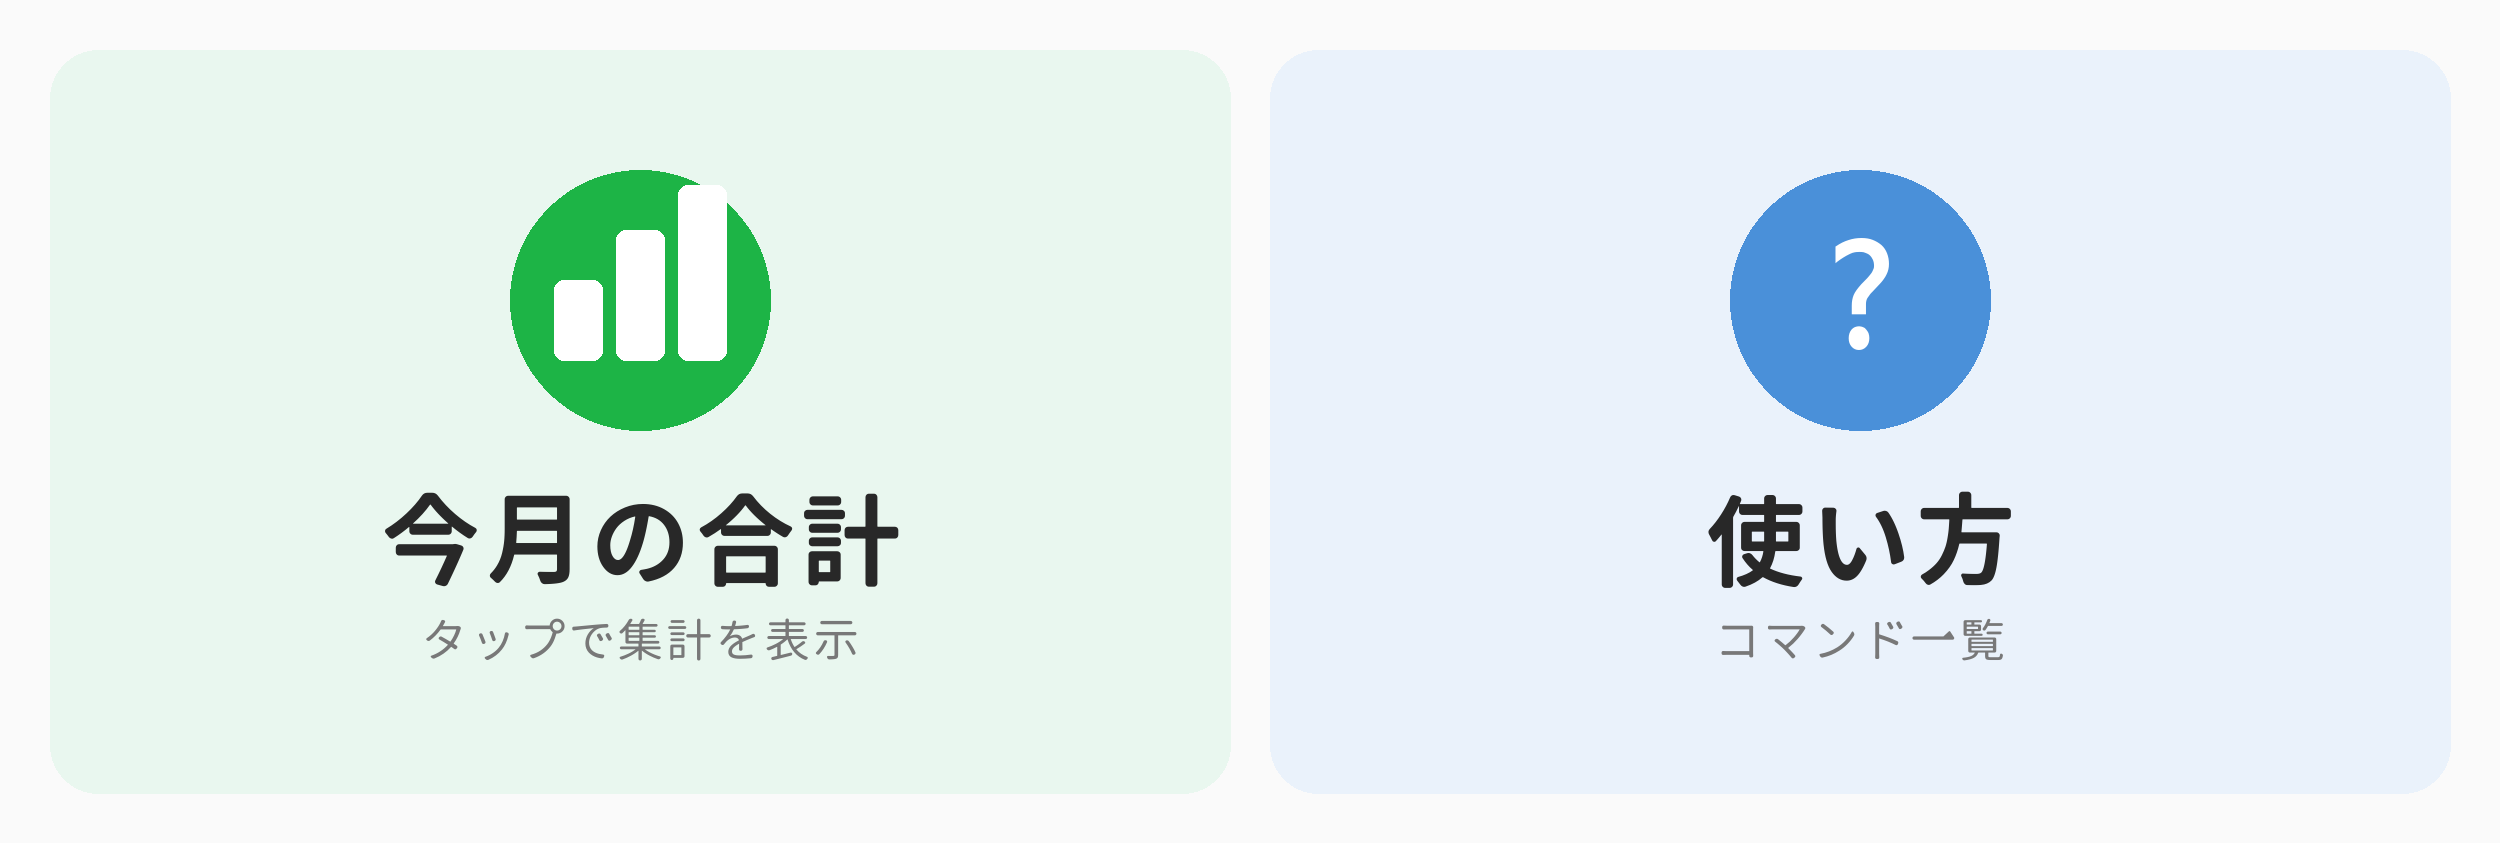
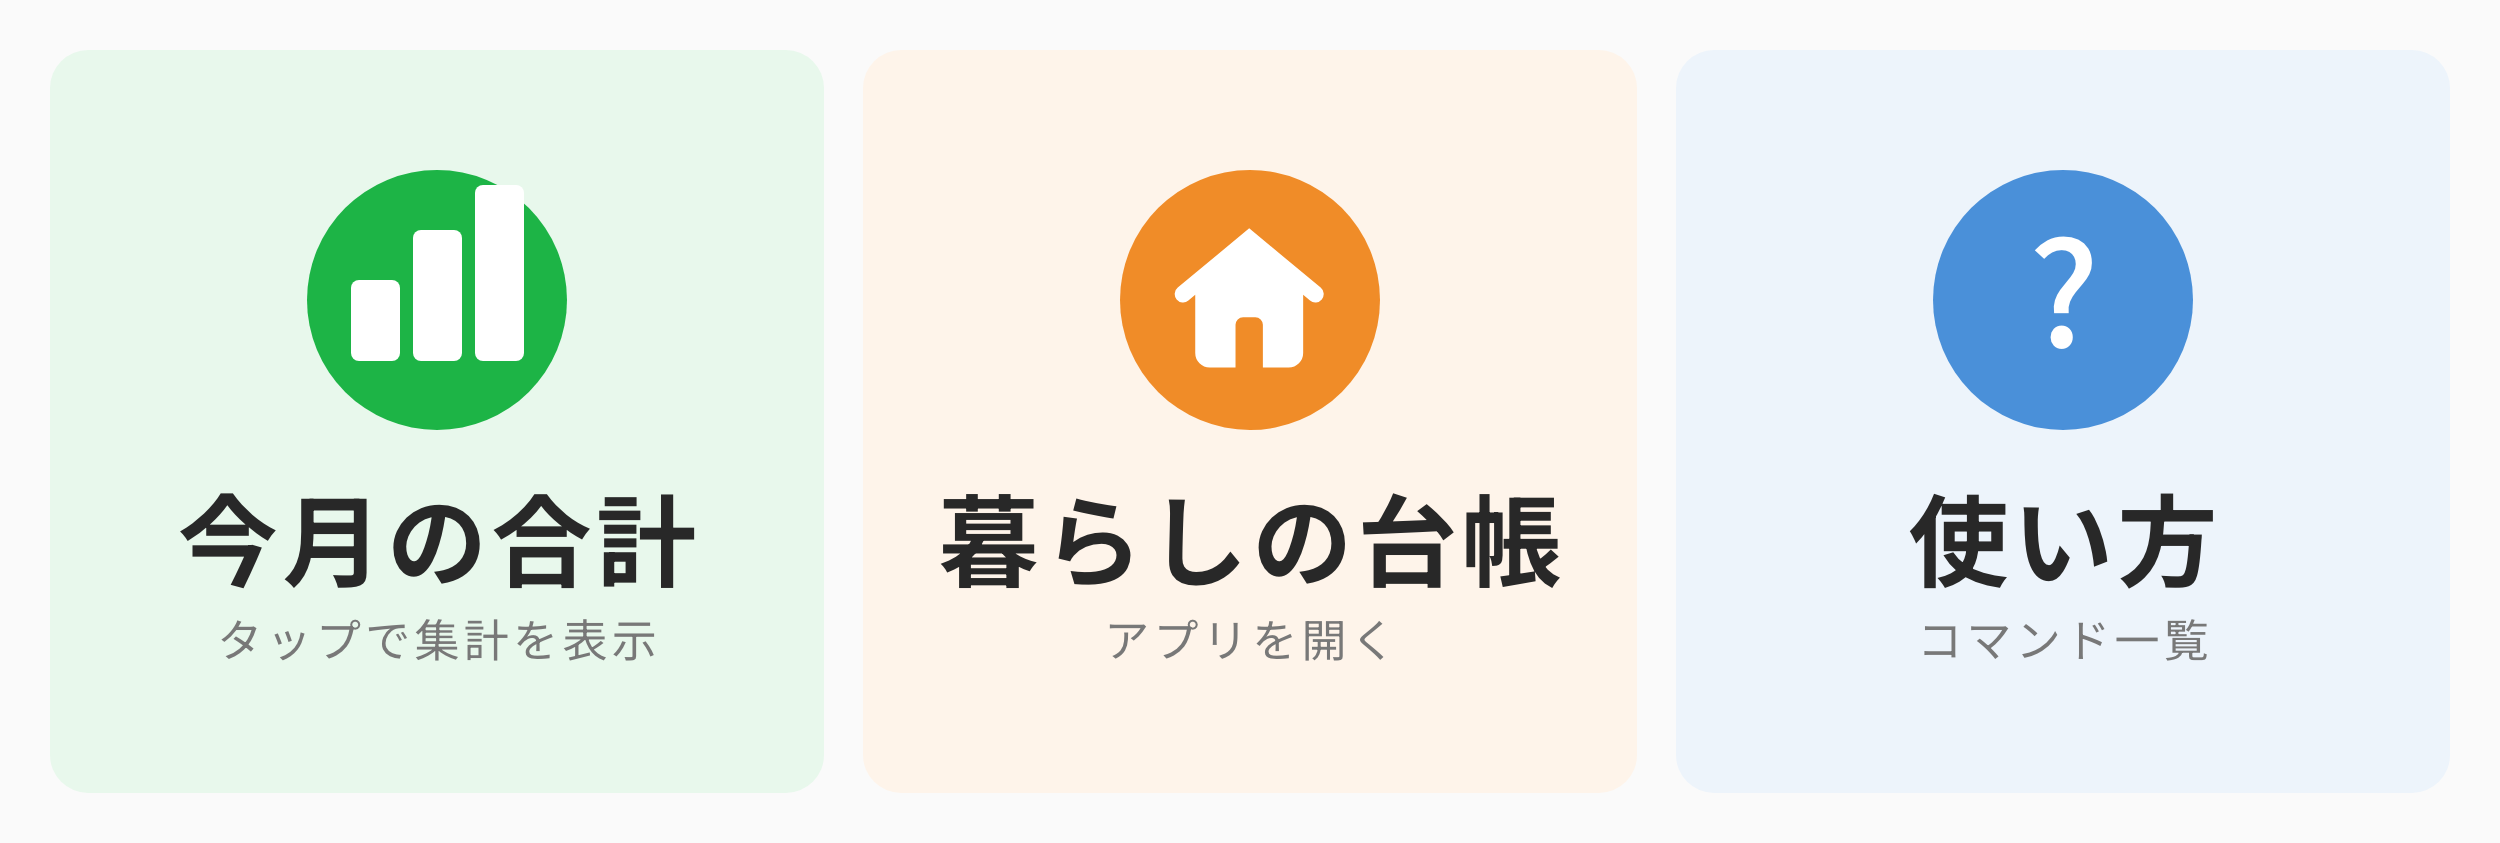
家計簿の LINE リッチメニューに「暮らしの台帳」を足し、画像を生成スクリプトで作る (#46)
- scripts/build-household-richmenu-image.py を追加（勤怠の build-richmenu-images.py と
  同じく HTML を Chrome のヘッドレスで撮る）。寸法・配色・書体は初代の画像から実測し、
  TILES を初代の2マスにすると初代とほぼ同じ画像が出る（画素の平均差 1.85/255）
- assets/line-richmenu.png を「今月の合計｜暮らしの台帳｜使い方」の3マスにする。
  真ん中はアプリを開くリンク用（リッチメニューは LINE Official Account Manager で設定）

diff --git a/scripts/build-household-richmenu-image.py b/scripts/build-household-richmenu-image.py
@@ -1,0 +1,125 @@
+#!/usr/bin/env python3
+"""household-account（家計簿の LINE）のリッチメニュー画像（2500x843）を生成する。
+
+    python3 scripts/build-household-richmenu-image.py [出力先ディレクトリ]
+
+出力先を省略すると assets/ へ書き出す（assets/line-richmenu.png）。
+マスの増減は TILES を直す。リッチメニュー自体は LINE Official Account Manager で
+設定しているので、画像を差し替えたら管理画面でテンプレート（小・横N分割）と各マスの
+アクションも合わせること（API では作っていない）。
+
+寸法・配色・書体は初代の画像（手作業で作成・2マス）からピクセルを実測した値。
+このスクリプトで TILES を初代の2マスにすると、初代とほぼ同じ画像が出る。
+見出しと説明文は Noto Sans JP（Google Fonts から読む＝生成時にネット接続が要る）。
+初代と形を比べた一致度は、Hiragino・丸ゴシック系よりこれが高かった。
+Chrome のヘッドレススクリーンショットで描画するため Google Chrome が必要。
+"""
+import subprocess
+import sys
+import tempfile
+from pathlib import Path
+
+ROOT = Path(__file__).resolve().parent.parent
+OUT = Path(sys.argv[1]) if len(sys.argv) > 1 else ROOT / 'assets'
+CHROME = '/Applications/Google Chrome.app/Contents/MacOS/Google Chrome'
+
+W, H = 2500, 843          # LINE のリッチメニュー（小）
+MARGIN = 50               # 外周の余白（背景が見える幅）
+GAP = 39                  # マスとマスの間
+TILE_RADIUS = 38
+BG = '#FAFAFA'
+CIRCLE = 260              # アイコンの丸の直径。中心はマス上端から 250px
+TITLE_TOP = 443           # 見出しの字面の上端（マス上端から）
+TITLE_SIZE = 100
+TITLE_TRACK = 4.6        # 字間（px）
+SUB_TOP = 573             # 説明文の字面の上端（マス上端から）
+SUB_SIZE = 45
+SUB_TRACK = 4.3          # 字間（px）
+TITLE_COLOR = '#282828'
+SUB_COLOR = '#787878'
+TINT = 0.10               # マスの背景＝丸の色を白に 10% 溶かした色（初代の2色から逆算）
+
+# アイコンの中身（白）。座標は丸の左上を原点とする 260px 四方。
+GLYPH = {
+    # 棒グラフ：幅49・間隔14・高さ 81/131/176・底 y=190・角丸 8（初代の実測）
+    'bars': ('<rect x="44" y="110" width="49" height="81" rx="8"/>'
+             '<rect x="106" y="60" width="49" height="131" rx="8"/>'
+             '<rect x="168" y="15" width="49" height="176" rx="8"/>'),
+    # ？：初代は字（字面 52x112・中心 x=132）。同じ書体で置く
+    'question': ('<text x="131" y="177" text-anchor="middle" font-family="Noto Sans JP" '
+                 'font-weight="500" font-size="144">?</text>'),
+    # 家：アプリ（暮らしの台帳）の帯のアイコンと同じ形を丸の大きさに合わせたもの
+    'house': ('<path transform="translate(38 34) scale(7.6)" d="M12 3.2 2.6 11a1.1 1.1 0 0 0 1.4 1.7'
+              'l.9-.75V19.6A1.9 1.9 0 0 0 6.8 21.5h3.4v-5.6a1 1 0 0 1 1-1h1.6a1 1 0 0 1 1 1v5.6h3.4'
+              'a1.9 1.9 0 0 0 1.9-1.9v-7.65l.9.75A1.1 1.1 0 0 0 21.4 11z"/>'),
+}
+
+# マス: (アイコン, 丸の色, 見出し, 説明)。左から並ぶ。
+# 初代は [('bars', '#1DB446', '今月の合計', ...), ('question', '#4A90D9', '使い方', ...)] の2マス
+TILES = [
+    ('bars', '#1DB446', '今月の合計', 'タップで集計を表示'),
+    ('house', '#F08C28', '暮らしの台帳', 'アプリを開く'),
+    ('question', '#4A90D9', '使い方', 'コマンド一覧'),
+]
+
+
+def _tint(hex_color, a=TINT):
+    """丸の色を白に a だけ溶かした色（マスの背景）"""
+    c = [int(hex_color[i:i + 2], 16) for i in (1, 3, 5)]
+    return '#' + ''.join(f'{round(255 - a * (255 - v)):02X}' for v in c)
+
+
+CSS = f"""
+*{{margin:0;padding:0;box-sizing:border-box}}
+body{{width:{W}px;height:{H}px;background:{BG};overflow:hidden;
+     font-family:"Noto Sans JP",sans-serif;-webkit-font-smoothing:antialiased}}
+.row{{position:absolute;left:{MARGIN}px;right:{MARGIN}px;top:{MARGIN}px;bottom:{MARGIN}px;
+     display:grid;grid-auto-flow:column;grid-auto-columns:1fr;gap:{GAP}px}}
+.tile{{position:relative;border-radius:{TILE_RADIUS}px}}
+.ico{{position:absolute;left:50%;top:{250 - CIRCLE // 2}px;width:{CIRCLE}px;height:{CIRCLE}px;
+     margin-left:-{CIRCLE // 2}px;border-radius:50%}}
+.ico svg{{display:block}}
+/* 字面の上端を合わせるため line-height:1 の箱をフォントの上余白ぶん上げる。
+   字間は最後の字の後ろにも付くので、同じだけ左に足して中心を保つ */
+.t{{position:absolute;left:0;right:0;top:{TITLE_TOP - round(TITLE_SIZE * 0.07)}px;text-align:center;
+   font-size:{TITLE_SIZE}px;line-height:1;font-weight:700;color:{TITLE_COLOR};
+   letter-spacing:{TITLE_TRACK}px;padding-left:{TITLE_TRACK}px}}
+.s{{position:absolute;left:0;right:0;top:{SUB_TOP - round(SUB_SIZE * 0.17)}px;text-align:center;
+   font-size:{SUB_SIZE}px;line-height:1;font-weight:400;color:{SUB_COLOR};
+   letter-spacing:{SUB_TRACK}px;padding-left:{SUB_TRACK}px}}
+"""
+
+
+def build(tiles=TILES):
+    cells = ''.join(
+        f'<div class="tile" style="background:{_tint(color)}">'
+        f'<div class="ico" style="background:{color}">'
+        f'<svg width="{CIRCLE}" height="{CIRCLE}" viewBox="0 0 {CIRCLE} {CIRCLE}" fill="#fff">{GLYPH[icon]}</svg></div>'
+        f'<div class="t">{title}</div><div class="s">{sub}</div></div>'
+        for icon, color, title, sub in tiles)
+    return ('<!doctype html><html lang="ja"><head><meta charset="utf-8">'
+            '<link rel="stylesheet" href="https://fonts.googleapis.com/css2?'
+            'family=Noto+Sans+JP:wght@400;500;600;700&display=block">'
+            f'<style>{CSS}</style></head><body><div class="row">{cells}</div></body></html>')
+
+
+def render(html_text, png):
+    with tempfile.TemporaryDirectory() as tmp:
+        html = Path(tmp) / 'menu.html'
+        html.write_text(html_text, encoding='utf-8')
+        # --virtual-time-budget: Web フォントを読み終えるまで撮影を待つ
+        subprocess.run([CHROME, '--headless', '--disable-gpu', '--hide-scrollbars',
+                        '--virtual-time-budget=10000', f'--screenshot={png}',
+                        f'--window-size={W},{H}', f'file://{html}'],
+                       check=True, stdout=subprocess.DEVNULL, stderr=subprocess.DEVNULL)
+
+
+def main():
+    OUT.mkdir(parents=True, exist_ok=True)
+    png = OUT / 'line-richmenu.png'
+    render(build(), png)
+    print(f'生成: {png}')
+
+
+if __name__ == '__main__':
+    main()
